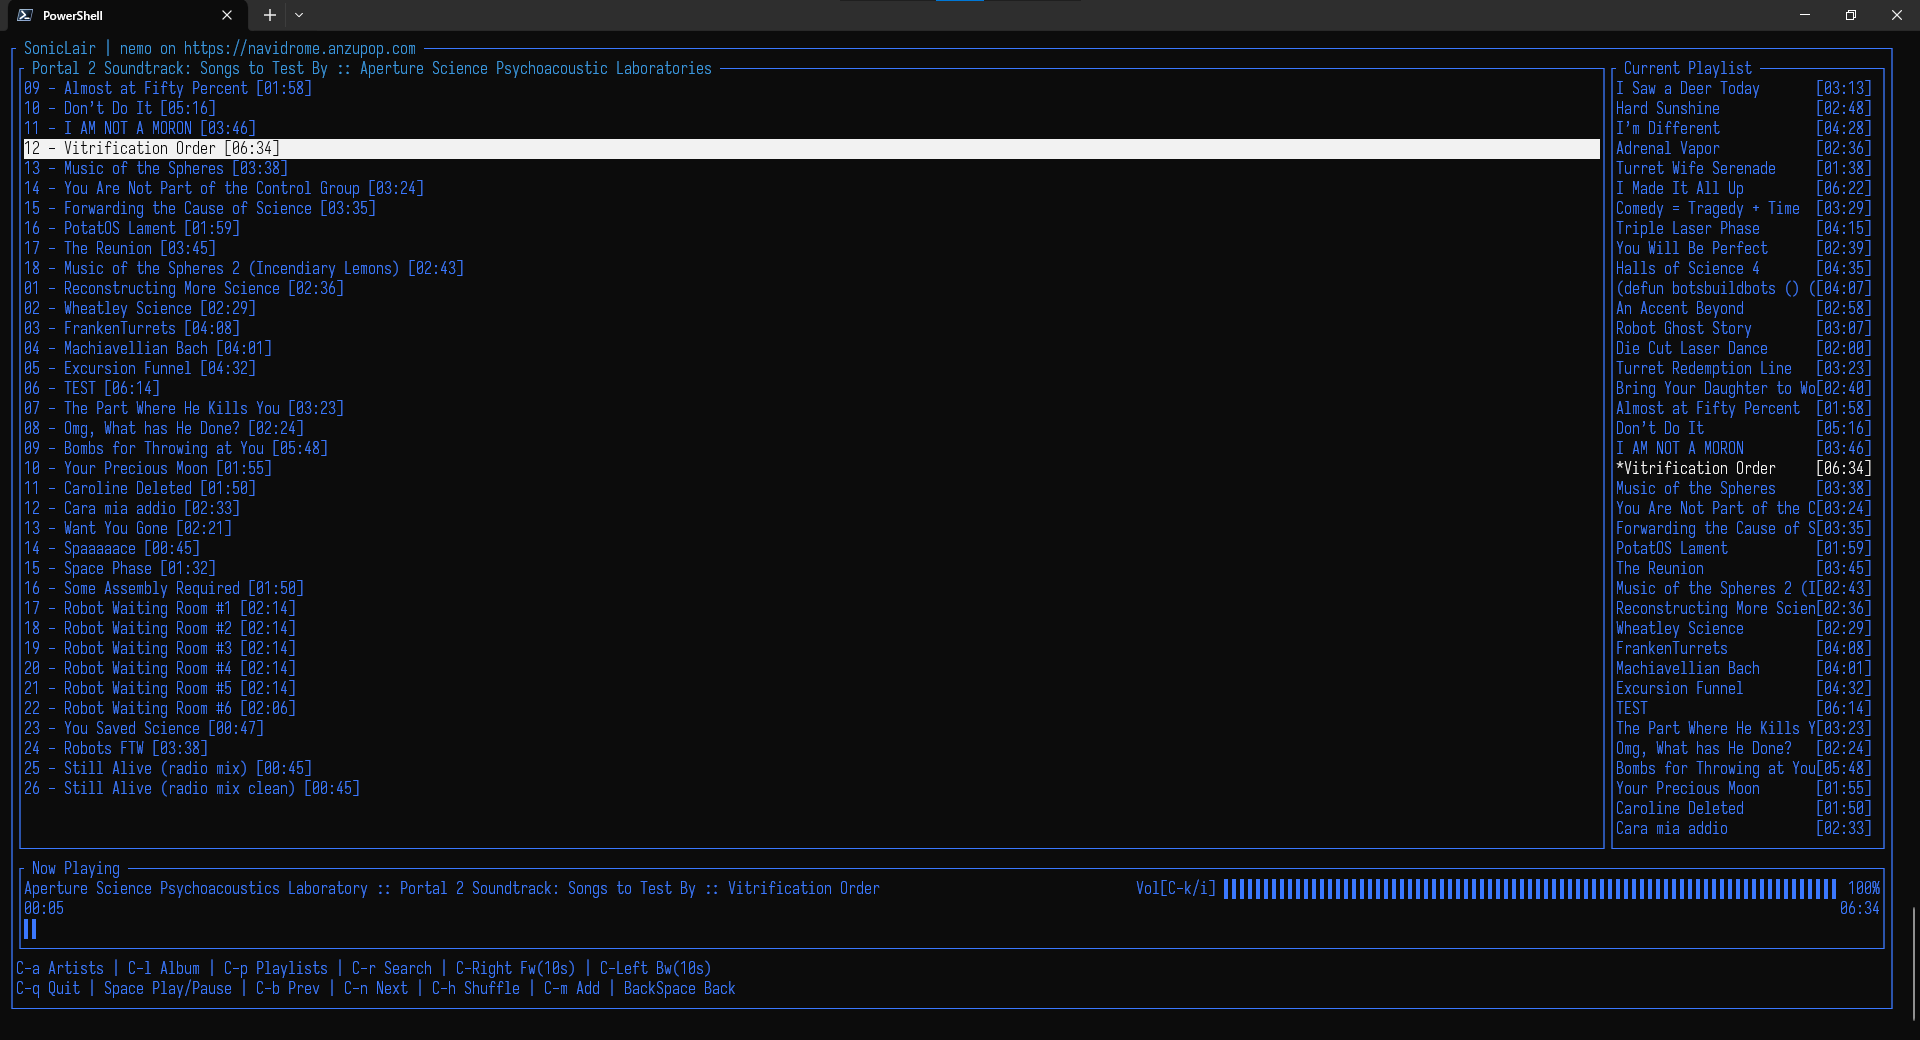
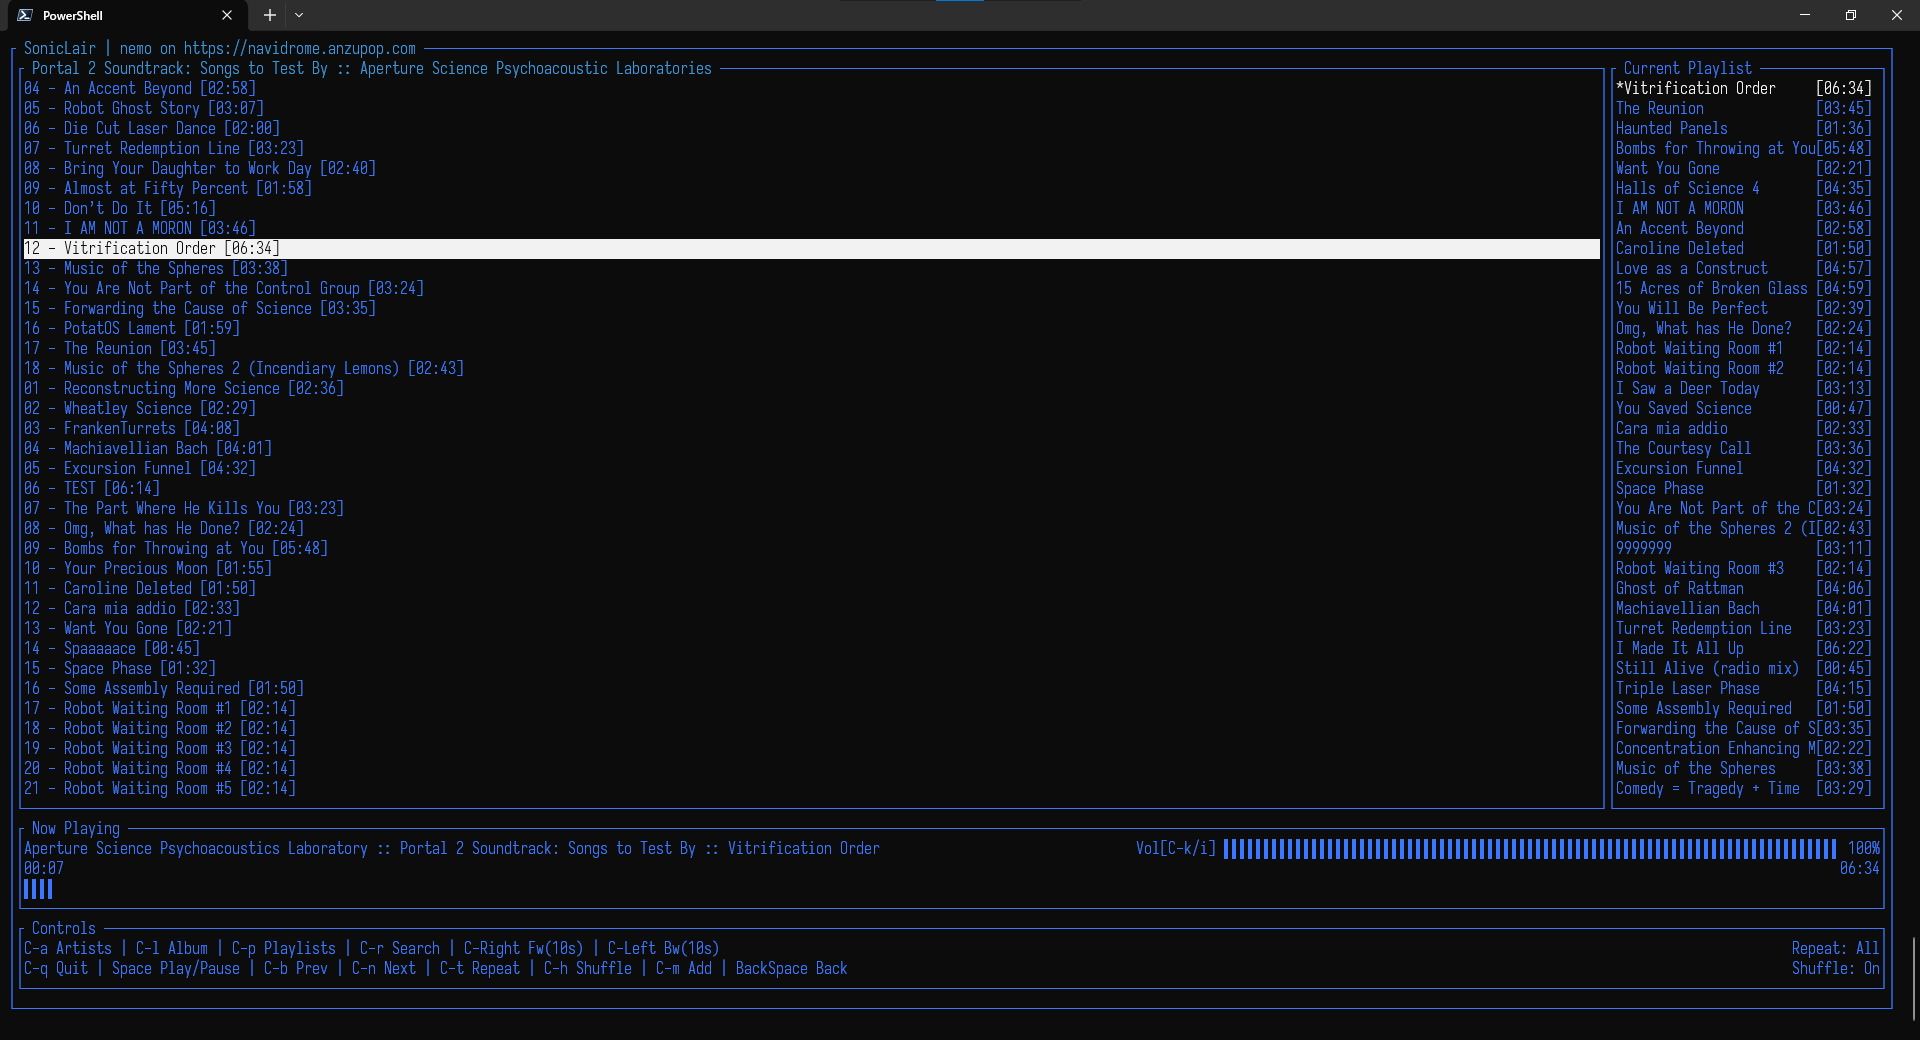
1.1.0 release

diff --git a/SonicLair.Cli/changelog.md b/SonicLair.Cli/changelog.md
@@ -1,3 +1,4 @@
-# New release!
+# 1.1.0 release!
 
-First release.
+* Implement repeat mechanism.
+* Implement repeat and shuffle indicators.
